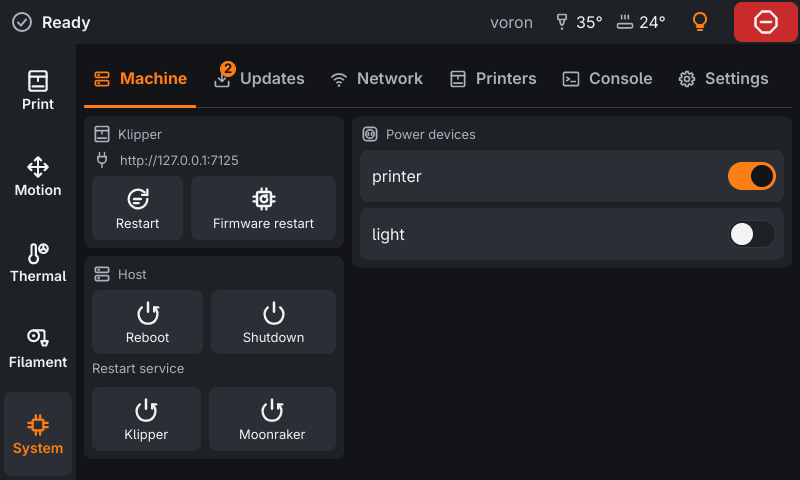
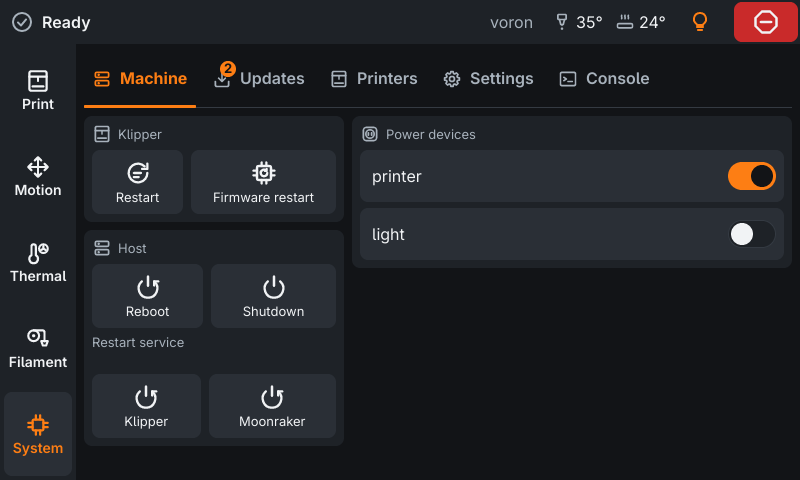
Group system settings into sections, keep five tabs
Settings lists Display, Network, Access, Logs and About; Network moves
from its own tab into the settings. Console goes last. Drop the
Moonraker address from Machine and the printer card from Settings,
both shown on Printers. Keep the address of a Wi-Fi adapter whole.
Keep System marked in the rail on the Printers tab.

diff --git a/crates/ui-snapshot/src/scenes/login.rs b/crates/ui-snapshot/src/scenes/login.rs
@@ -2,7 +2,7 @@
 
 use super::ask;
 use crate::session::Session;
-use sailhand::{Actions, Confirm, Page, Printer};
+use sailhand::{Actions, Confirm, Navigation, Page, Printer, SettingsSection};
 use sailhand_core::ConnectionState;
 use slint::ComponentHandle;
 use std::time::Duration;
@@ -45,6 +45,7 @@ pub(super) fn type_and_enter(session: &mut Session, text: &str) {
 
 /// The settings show the user and offer to log out; the logout leads back to the login.
 pub(super) fn logged_in(session: &mut Session) -> Result<(), String> {
+    session.window.global::<Navigation>().set_settings_section(SettingsSection::Access);
     session.show_page(Page::Settings, "settings-logged-in")?;
     if session.window.global::<Printer>().get_login_user() != "test" {
         return Err("the settings do not show the logged-in user".into());

diff --git a/docs/architecture.md b/docs/architecture.md
@@ -166,8 +166,8 @@ history, and the job Klipper lost in a shutdown or restart, which the print page
 - `pages/`: print (with the file list in `files.slint` and the prepared file in `print-prepared.slint`), motion (tabs Axes, Tune and Expert from `tune.slint`, and Calibrate in `calibrate.slint`), temperature, filament (with Happy Hare the
   tabs Gates in `mmu.slint` with the dialogs in `mmu-dialogs.slint`, Extruder, Tools in `mmu-tools.slint` and
   Service in `mmu-service.slint`;
-  otherwise the extruder alone), and the system tabs: system (machine), updates, network (`network-page.slint` with
-  `network.slint`), console (with the macro list), settings; connection replaces the printer pages while
+  otherwise the extruder alone), and the system tabs: system (machine), updates, printers, settings (sections Display, Network
+  in `network.slint`, Access, Logs, About), console (with the macro list); connection replaces the printer pages while
   Moonraker or Klipper is not ready or wants a login.
 - `preview/`: small components with sample data (`sample.slint`) for `scripts/ui-preview.sh`, never imported by the app.
 - Pages only read globals and only call `Actions`/`Confirm`; printer-related logic belongs in the core.

diff --git a/docs/configuration.md b/docs/configuration.md
@@ -243,7 +243,7 @@ Usually Moonraker trusts the machine Sailhand runs on (`trusted_clients` in `moo
 
 - **Log in on the screen** with a Moonraker user. Sailhand keeps only Moonraker's refresh token, not the password,
   and logs in again with it at every start until it expires (`login_timeout` in `moonraker.conf`, 90 days by default)
-  or the user logs out; then the screen asks again. Logging out (Settings tab, or the same user logging out in
+  or the user logs out; then the screen asks again. Logging out (System → Settings → Access, or the same user logging out in
   Mainsail or Fluidd) ends every login of that user, so a user of its own for the display avoids surprises.
 - **API key**, entered by hand in the credentials file below. Moonraker hands it out to an authorized client, for
   example on the printer host, which it usually trusts: `curl http://localhost:7125/access/api_key`.

diff --git a/docs/development.md b/docs/development.md
@@ -108,7 +108,7 @@ The development tools are separate programs and never shipped: `fake-moonraker` 
 
 - Versions come from git tags (`.github/scripts/version.sh`): releases are `vX.Y.0`, every later commit on `main` adds
   one to the patch number (`0.2.1`, `0.2.2`, ...). Pull request builds are `X.Y.Z-pr.<number>.<run>`, other branches
-  `X.Y.Z-dev.<commit>` (started manually), local builds `0.0.0-dev`. The version is shown on System → Settings and by
+  `X.Y.Z-dev.<commit>` (started manually), local builds `0.0.0-dev`. The version is shown on System → Settings → About and by
   `--version`.
 - Every push to `main` and every pull request: format, clippy, tests, builds and packages for all targets
   (`.github/workflows/ci.yml`), with cargo caching; a branch without a pull request can be built with **Run workflow**.
